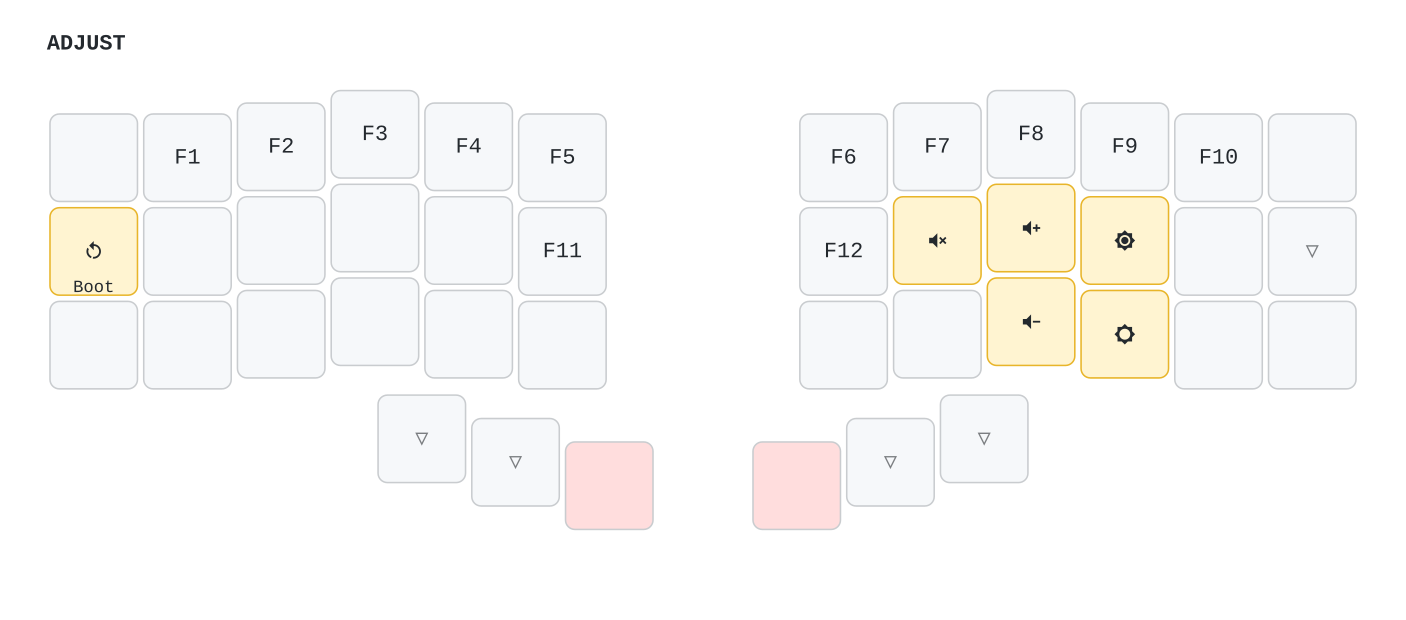
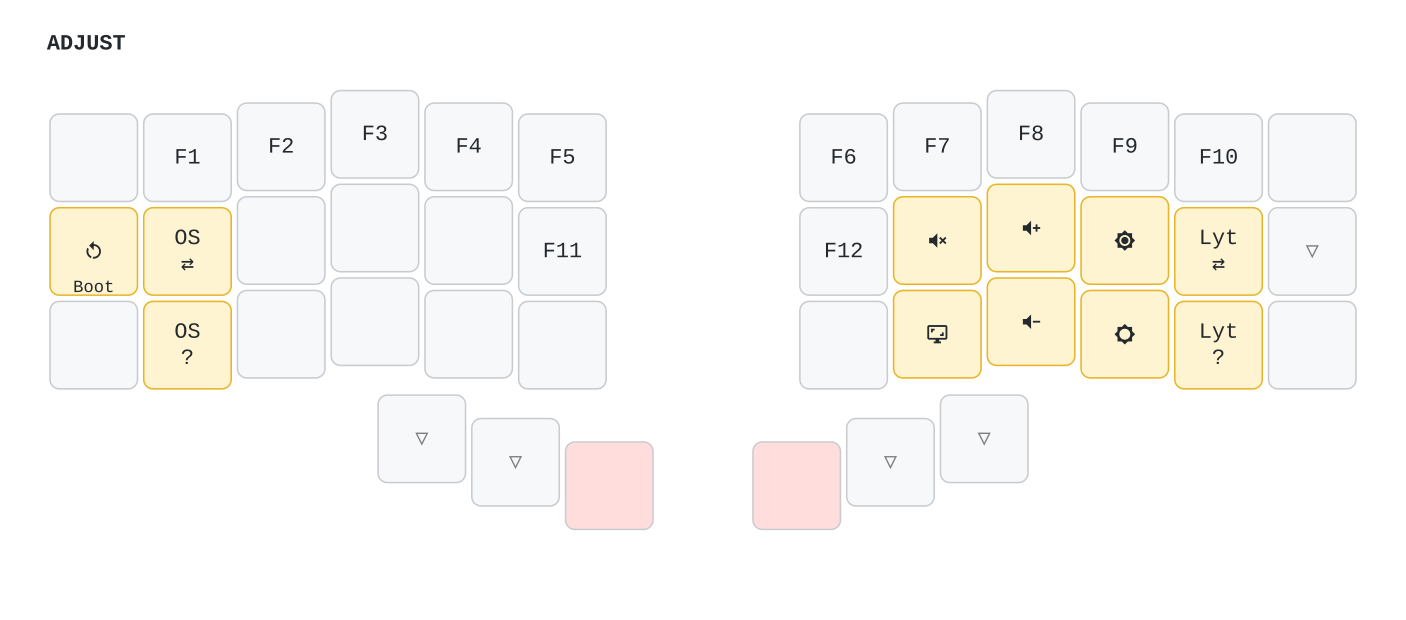
refactor: moves lesser used combos to the ADJUST layer

Changed region(s): [[0.8257, 0.3065, 0.9175, 0.6435], [0.0917, 0.3065, 0.1835, 0.6435], [0.6117, 0.4597, 0.7034, 0.6129]]

diff --git a/keyboards/6x3_3/keymaps/crafted/keymap.c b/keyboards/6x3_3/keymaps/crafted/keymap.c
@@ -73,10 +73,6 @@ enum layers {
 
 // Combo indices — must match key_combos[] order exactly
 enum combo_events {
-    COMBO_SWITCH_OS,
-    COMBO_PRINT_OS,
-    COMBO_SWITCH_LAYOUT,
-    COMBO_PRINT_LAYOUT,
     COMBO_COMPOSE,
 #ifdef XC_WEAK_CORNERS
     COMBO_WC_TL,
@@ -86,17 +82,9 @@ enum combo_events {
 #endif
 };
 
-const uint16_t PROGMEM switch_os[] = {_04_, LCTL_T(_28_), COMBO_END};  // Left hand: toggle OS and mod morph
-const uint16_t PROGMEM print_os[] = {_03_, LCTL_T(_28_), _04_, COMBO_END};  // Left hand: print OS name
-const uint16_t PROGMEM switch_layout[] = {_07_, RCTL_T(_31_), COMBO_END};  // Right hand mirror: toggle default layout
-const uint16_t PROGMEM print_layout[] = {_08_, RCTL_T(_31_), _07_, COMBO_END};  // Right hand mirror: print layout name
 const uint16_t PROGMEM compose_combo[] = {KC_LSFT, KC_SPC, COMBO_END};  // Both inner thumbs tapped together: arm Compose
 
 combo_t key_combos[] = {
-    COMBO_ACTION(switch_os),     // COMBO_SWITCH_OS
-    COMBO_ACTION(print_os),      // COMBO_PRINT_OS
-    COMBO_ACTION(switch_layout), // COMBO_SWITCH_LAYOUT
-    COMBO_ACTION(print_layout),  // COMBO_PRINT_LAYOUT
     COMBO_ACTION(compose_combo), // COMBO_COMPOSE
     XC_WEAK_CORNERS_COMBOS       // COMBO_WC_TL/TR/BL/BR (when XC_WEAK_CORNERS)
 };
@@ -285,19 +273,22 @@ const uint16_t PROGMEM keymaps[][MATRIX_ROWS][MATRIX_COLS] = {
       * ┌───┬───┬───┬───┬───┬───┐       ┌───┬───┬───┬───┬───┬───┐
       * │   │F1 │F2 │F3 │F4 │F5 │       │F6 │F7 │F8 │F9 │F10│   │
       * ├───┼───┼───┼───┼───┼───┤       ├───┼───┼───┼───┼───┼───┤
-      * │Bot│   │   │   │   │F11│       │F12│Mut│Vl↑│Br↑│   │ ▽ │
+      * │Bot│OS⇄│   │   │   │F11│       │F12│Mut│Vl↑│Br↑│Ly⇄│ ▽ │
       * ├───┼───┼───┼───┼───┼───┤       ├───┼───┼───┼───┼───┼───┤
-      * │   │   │   │   │   │   │       │   │   │Vl↓│Br↓│   │   │
+      * │   │OS?│   │   │   │   │       │   │Scr│Vl↓│Br↓│Ly?│   │
       * └───┴───┴───┴───┴───┴───┘       └───┴───┴───┴───┴───┴───┘
       * Fn keys on the top row (F1-F10), F11/F12 continue on the inner home columns
       * Bot=QK_BOOT at the Tab position (sole bootloader access; the BASE combo was removed)
       * Volume (middle col) and Brightness (ring col) as vertical pairs: up on home, down below
-      * Mut=Mute; ▽ at 23 = Bspc (via SYMBOLS); thumbs ▽ as everywhere (Esc/Shift/Space/Ent)
+      * OS⇄/OS?=toggle/print OS (left, as the old combos), Ly⇄/Ly?=toggle/print default layout
+      * (right, as the old combos) — switch on home row, print below it; Scr=PrtScr (Linux;
+      * macOS screenshots stay on Cmd+Shift+3/4); Mut=Mute
+      * ▽ at 23 = Bspc (via SYMBOLS); thumbs ▽ as everywhere (Esc/Shift/Space/Ent)
       */
     [ADJUST] = LAYOUT_split_3x6_3(
         KC_NO,   KC_F1,   KC_F2,   KC_F3,   KC_F4,   KC_F5,                              KC_F6,   KC_F7,   KC_F8,   KC_F9,   KC_F10,  KC_NO,
-        QK_BOOT, KC_NO,   KC_NO,   KC_NO,   KC_NO,   KC_F11,                             KC_F12,  KC_MUTE, KC_VOLU, KC_BRIU, KC_NO,   _______,
-        KC_NO,   KC_NO,   KC_NO,   KC_NO,   KC_NO,   KC_NO,                              KC_NO,   KC_NO,   KC_VOLD, KC_BRID, KC_NO,   KC_NO,
+        QK_BOOT, SW_OS,   KC_NO,   KC_NO,   KC_NO,   KC_F11,                             KC_F12,  KC_MUTE, KC_VOLU, KC_BRIU, SW_LYT,  _______,
+        KC_NO,   PR_OS,   KC_NO,   KC_NO,   KC_NO,   KC_NO,                              KC_NO,   KC_PSCR, KC_VOLD, KC_BRID, PR_LYT,  KC_NO,
                                             _______, _______, _______,                  _______, _______, _______
     )
 };
@@ -440,6 +431,35 @@ bool process_record_user(uint16_t keycode, keyrecord_t *record) {
             }
             return false;
 
+        // System actions on ADJUST (moved off the old base-layer combos)
+        case SW_OS:
+            if (record->event.pressed) {
+                toggle_os_platform();
+            }
+            return false;
+
+        case PR_OS:
+            if (record->event.pressed) {
+                send_string(get_os_platform_name());
+            }
+            return false;
+
+        case SW_LYT:
+            if (record->event.pressed) {
+                if (get_highest_layer(default_layer_state) == BASE) {
+                    default_layer_set(1UL << BASE_ALT);
+                } else {
+                    default_layer_set(1UL << BASE);
+                }
+            }
+            return false;
+
+        case PR_LYT:
+            if (record->event.pressed) {
+                send_string(get_highest_layer(default_layer_state) == BASE ? XC_LAYOUT_NAME : XC_SECONDARY_LAYOUT_NAME);
+            }
+            return false;
+
 #ifdef XC_ALT_BASE_SYMBOLS
         // Alt-symbol shifted behavior for mod-tap keys (positions 32-33)
         // Mod-tap uses basic keycodes; custom shift handled here instead of key overrides
@@ -475,34 +495,6 @@ bool is_swapper_ignored_key(uint16_t keycode) {
 // Combo event handler
 void process_combo_event(uint16_t combo_index, bool pressed) {
     switch(combo_index) {
-        case COMBO_SWITCH_OS:
-            if (pressed) {
-                toggle_os_platform();
-            }
-            break;
-        case COMBO_PRINT_OS:
-            if (pressed) {
-                send_string(get_os_platform_name());
-            }
-            break;
-        case COMBO_SWITCH_LAYOUT:
-            if (pressed) {
-                if (get_highest_layer(default_layer_state) == BASE) {
-                    default_layer_set(1UL << BASE_ALT);
-                } else {
-                    default_layer_set(1UL << BASE);
-                }
-            }
-            break;
-        case COMBO_PRINT_LAYOUT:
-            if (pressed) {
-                if (get_highest_layer(default_layer_state) == BASE) {
-                    send_string(XC_LAYOUT_NAME);
-                } else {
-                    send_string(XC_SECONDARY_LAYOUT_NAME);
-                }
-            }
-            break;
         case COMBO_COMPOSE:
             if (pressed) {
                 compose_pending = true;

diff --git a/keyboards/6x3_3/keymaps/crafted/custom_keycodes.h b/keyboards/6x3_3/keymaps/crafted/custom_keycodes.h
@@ -31,6 +31,10 @@ enum custom_keycodes {
     SEL_LATCH,               // Shift latch scoped to the FAVS layer (tap to toggle)
     MD_FENCE,                // Markdown code fence: types ```
     ARROW_OP,                // Tap: ->  Shift: =>
+    SW_OS,                   // Toggle OS platform (macOS/Linux)
+    PR_OS,                   // Type the current OS platform name
+    SW_LYT,                  // Toggle default base layout (primary/secondary)
+    PR_LYT,                  // Type the current layout name
 
     // Semantic keys (expanded from SEMANTIC_KEYS_LIST macro)
     SEMANTIC_KEYS_LIST,